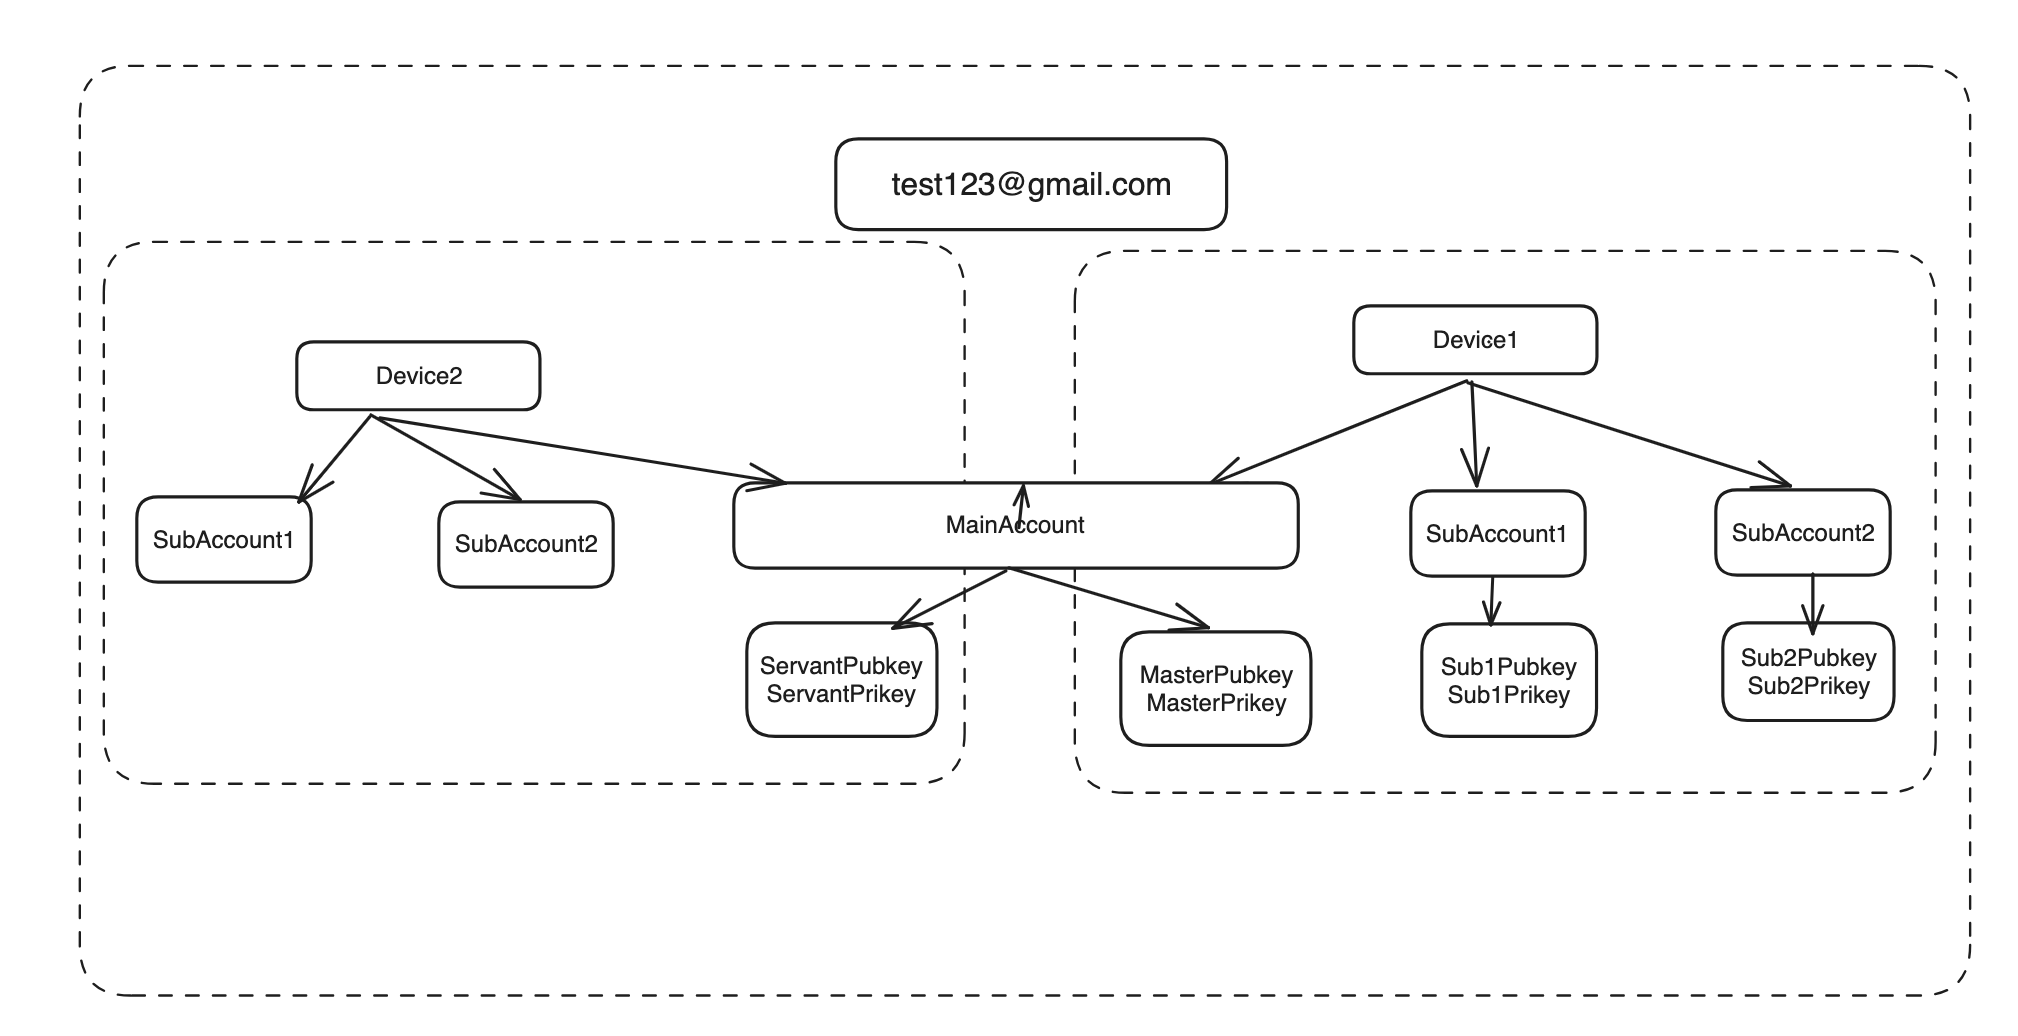
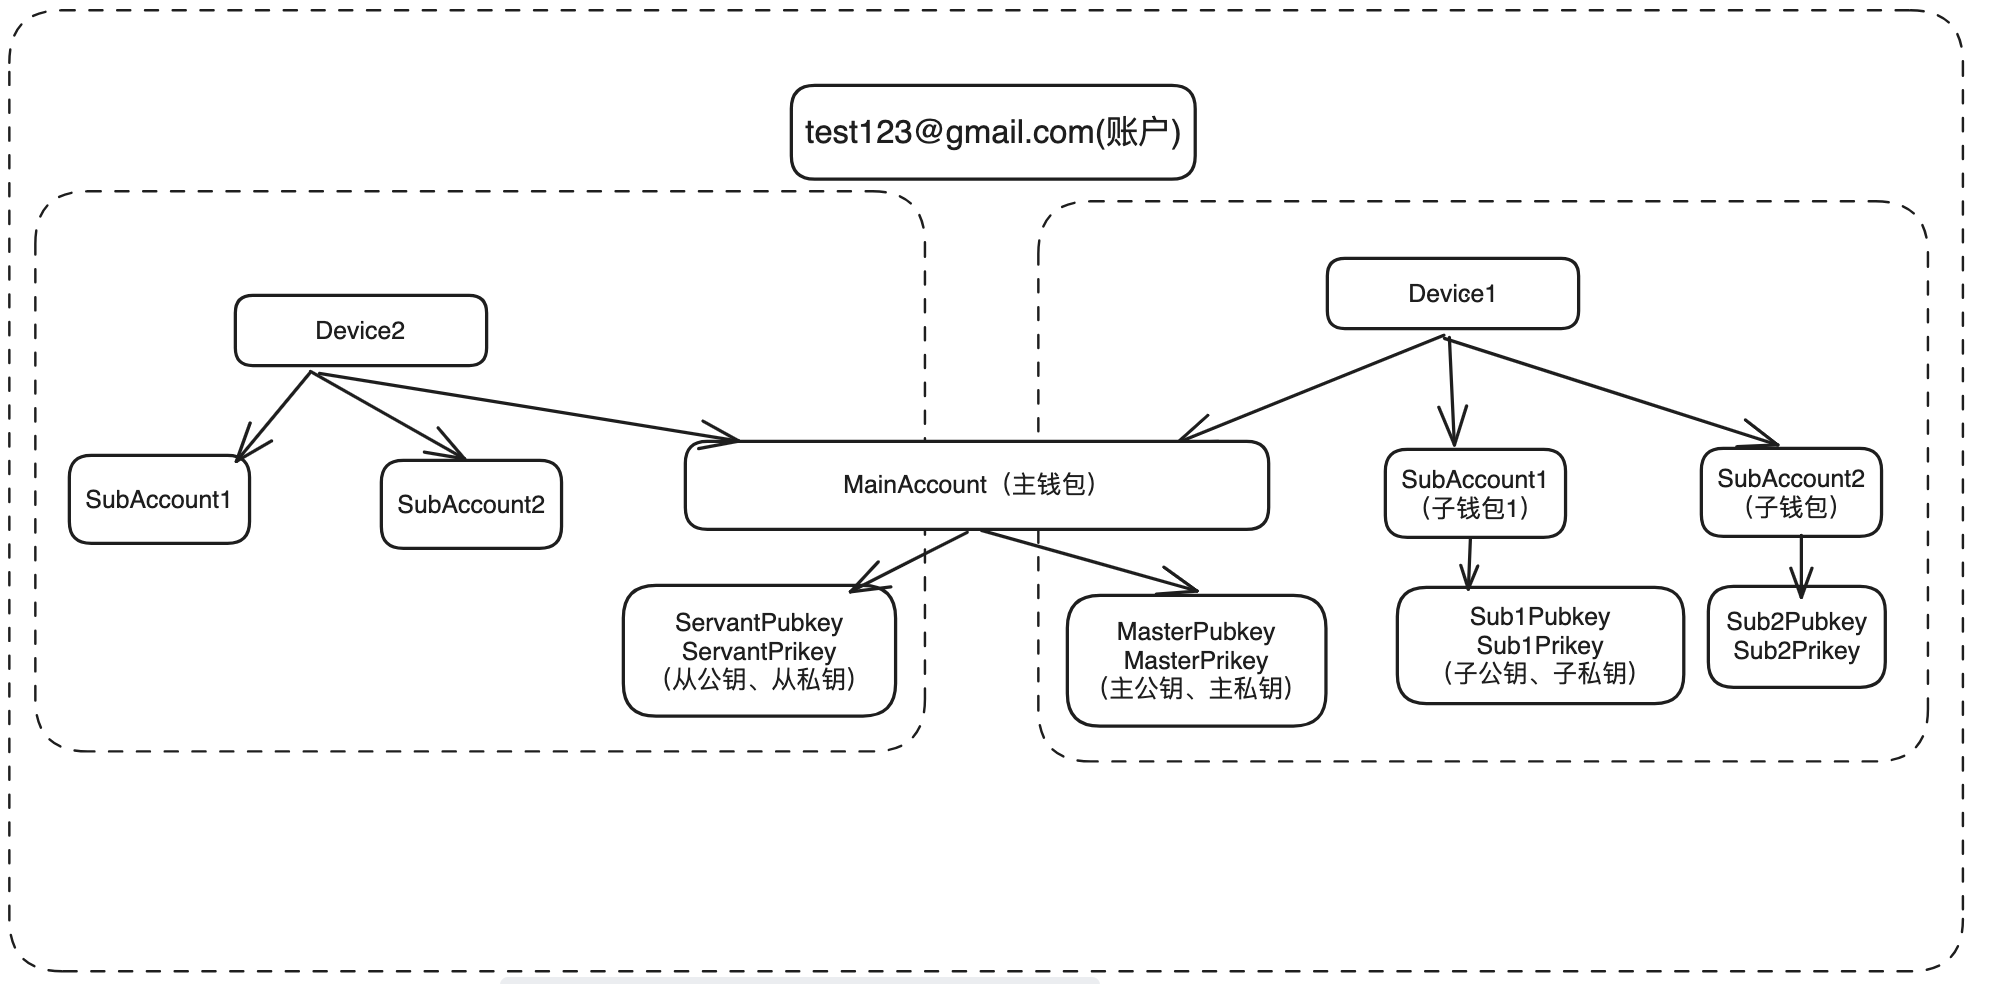
docs: update wallet api docs

diff --git a/api/src/wallet/mod.rs b/api/src/wallet/mod.rs
@@ -73,9 +73,9 @@ async fn search_message(request: HttpRequest) -> impl Responder {
  * @apiSuccess {string=0,1} status_code         status code.
  * @apiSuccess {string=Successfully,InternalError} msg
  * @apiSuccess {Object} data                          策略详情.
- * @apiSuccess {String} data.master_pubkey        主账户的maser的公钥
- * @apiSuccess {String[]} data.servant_pubkeys    主账户的servant的公钥组
- * @apiSuccess {String[]} data.subaccounts        子账户的公钥组
+ * @apiSuccess {String} data.master_pubkey        主钱包的maser的公钥
+ * @apiSuccess {String[]} data.servant_pubkeys    主钱包的servant的公钥组
+ * @apiSuccess {String[]} data.subaccounts        子钱包的公钥组
  * @apiSuccess {Object[]} [data.multi_sig_ranks]        转账额度对应签名数的档位.
  * @apiSuccess {Number} data.multi_sig_ranks.min       最小金额.
  * @apiSuccess {Number} data.multi_sig_ranks.max_eq        最大金额.
@@ -99,12 +99,35 @@ async fn get_strategy(
     gen_extra_respond(handlers::get_strategy::req(request, request_data.into_inner()).await)
 }
 
+
+
+
+/**
+ * @api {get} /wallet/getStrategy 查询钱包的主从签名策略
+ * @apiVersion 0.0.1
+ * @apiName getStrategy
+ * @apiGroup Wallet
+ * @apiQuery {String} pubkey              想要备份密钥所属的公钥
+ * @apiHeader {String} Authorization  user's access token
+ * @apiExample {curl} Example usage:
+ *   curl -X POST http://120.232.251.101:8066/wallet/getStrategy
+ * -H "Content-Type: application/json" -H 'Authorization:Bearer eyJ0eXAiOiJKV1QiLCJhbGci
+    OiJIUzI1NiJ9.eyJ1c2VyX2lkIjoxLCJkZXZpY2VfaWQiOiIyIiwiaWF0IjoxNzA2ODQ1ODgwODI3LCJleHA
+    iOjE3MDgxNDE4ODA4Mjd9.YsI4I9xKj_y-91Cbg6KtrszmRxSAZJIWM7fPK7fFlq8'
+ * @apiSuccess {string=0,1} status_code         status code.
+ * @apiSuccess {string=Successfully,InternalError} msg
+ * @apiSuccess {Object} data                                    备份加密密钥信息.
+ * @apiSuccess {String} data.pubkey                             对应的公钥
+ * @apiSuccess {Number} data.user_id                            所属用户ID
+ * @apiSuccess {String} data.encrypted_prikey_by_password       被安全密码加密后的文本
+ * @apiSuccess {String} data.encrypted_prikey_by_answer         被安全问答加密后的文本
+ * @apiSampleRequest http://120.232.251.101:8066/wallet/getStrategy
+ */
 #[derive(Deserialize, Serialize, Default, Clone)]
 #[serde(rename_all = "camelCase")]
 pub struct GetSecretRequest {
     pubkey: String
 }
-//todo: 删掉account_id，从数据库去拿
 #[tracing::instrument(skip_all,fields(trace_id = common::log::generate_trace_id()))]
 #[get("/wallet/getSecret")]
 async fn get_secret(
@@ -116,7 +139,7 @@ async fn get_secret(
 }
 
 /**
- * @api {post} /wallet/preSendMoney 主公钥发起预交易
+ * @api {post} /wallet/preSendMoney 主钱包发起预交易
  * @apiVersion 0.0.1
  * @apiName preSendMoney
  * @apiGroup Wallet
@@ -301,11 +324,11 @@ async fn upload_servant_sig(
 }
 
 /**
- * @api {post} /wallet/addServant 主设备添加从公钥匙
+ * @api {post} /wallet/addServant 主设备添加从公钥
  * @apiVersion 0.0.1
  * @apiName addServant
  * @apiGroup Wallet
- * @apiBody {String} mainAccount    主账户Id
+ * @apiBody {String} mainAccount    主钱包Id
  * @apiBody {String} servantPubkey   从公钥
  * @apiBody {String} servantPrikeyEncrypedByPwd   经密码加密后的从私钥
  * @apiBody {String} servantPrikeyEncrypedByAnswer   经问答加密后的从私钥
@@ -353,10 +376,32 @@ async fn add_servant(
 }
 
 
+/**
+ * @api {post} /wallet/replaceServant 在主设备上选择新设备替换从设备
+ * @apiVersion 0.0.1
+ * @apiName ReplaceServant
+ * @apiGroup Wallet
+ * @apiBody {String} oldServantPubkey   要被替换的从公钥
+ * @apiBody {String} newServantPubkey   新晋从公钥
+ * @apiBody {String} newServantPprikeyEncrypedByPwd   新晋从公钥对应的密钥被密码加密
+ * @apiBody {String} newServantPrikeyEncrypedByAnswer   新晋从公钥对应的密钥被问答加密
+ * @apiBody {String} newDeviceId   新晋持有从公钥的设备ID
+
+ * @apiHeader {String} Authorization  user's access token
+ * @apiExample {curl} Example usage:
+ *   curl -X POST http://120.232.251.101:8066/wallet/replaceServant
+   -d ' {"“}'
+   -H "Content-Type: application/json" -H 'Authorization:Bearer eyJ0eXAiOiJKV1QiLCJhbGci
+    OiJIUzI1NiJ9.eyJ1c2VyX2lkIjoxLCJkZXZpY2VfaWQiOiIyIiwiaWF0IjoxNzA2ODQ1ODgwODI3LCJleHA
+    iOjE3MDgxNDE4ODA4Mjd9.YsI4I9xKj_y-91Cbg6KtrszmRxSAZJIWM7fPK7fFlq8'
+* @apiSuccess {string=0,1} status_code         status code.
+* @apiSuccess {string=Successfully,InternalError} msg
+* @apiSuccess {string} data                nothing.
+* @apiSampleRequest http://120.232.251.101:8066/wallet/replaceServant
+*/
 #[derive(Deserialize, Serialize, Clone)]
 #[serde(rename_all = "camelCase")]
 pub struct ReplaceServantRequest {
-    main_account: String,
     old_servant_pubkey: String,
     new_servant_pubkey: String,
     new_servant_prikey_encryped_by_pwd: String,
@@ -375,6 +420,25 @@ async fn replace_servant(
 
 
 
+/**
+ * @api {post} /wallet/removeServant 在主设备上删除从设备
+ * @apiVersion 0.0.1
+ * @apiName RemoveServant
+ * @apiGroup Wallet
+ * @apiBody {String} servantPubkey   待删除从公钥
+
+ * @apiHeader {String} Authorization  user's access token
+ * @apiExample {curl} Example usage:
+ *   curl -X POST http://120.232.251.101:8066/wallet/removeServant
+   -d ' {"“}'
+   -H "Content-Type: application/json" -H 'Authorization:Bearer eyJ0eXAiOiJKV1QiLCJhbGci
+    OiJIUzI1NiJ9.eyJ1c2VyX2lkIjoxLCJkZXZpY2VfaWQiOiIyIiwiaWF0IjoxNzA2ODQ1ODgwODI3LCJleHA
+    iOjE3MDgxNDE4ODA4Mjd9.YsI4I9xKj_y-91Cbg6KtrszmRxSAZJIWM7fPK7fFlq8'
+* @apiSuccess {string=0,1} status_code         status code.
+* @apiSuccess {string=Successfully,InternalError} msg
+* @apiSuccess {string} data                nothing.
+* @apiSampleRequest http://120.232.251.101:8066/wallet/removeServant
+*/
 #[derive(Deserialize, Serialize, Clone)]
 #[serde(rename_all = "camelCase")]
 pub struct RemoveServantRequest {
@@ -391,7 +455,7 @@ async fn remove_servant(
 }
 
 /***
-* @api {post} /wallet/servantSavedSecret 从设备通知服务端已经本地保存好
+* @api {post} /wallet/servantSavedSecret 从设备告知服务端密钥已保存
 * @apiVersion 0.0.1
 * @apiName servantSavedSecret
 * @apiGroup Wallet
@@ -431,11 +495,11 @@ async fn servant_saved_secret(
 }
 
 /**
- * @api {post} /wallet/addSubaccount 添加子账户
+ * @api {post} /wallet/addSubaccount 添加子钱包
  * @apiVersion 0.0.1
  * @apiName addSubaccount
  * @apiGroup Wallet 
- * @apiBody {String} mainAccount                        主账户id
+ * @apiBody {String} mainAccount                        主钱包id
  * @apiBody {String} subaccountPubkey                   从公钥
  * @apiBody {String} subaccountPrikeyEncrypedByPwd      密码加密后的从私钥
  * @apiBody {String} subaccountPrikeyEncrypedByAnswer   问答加密后的从私钥
@@ -483,7 +547,7 @@ pub struct MultiSigRankExternal {
 }
 
 /**
- * @api {post} /wallet/updateStrategy 更新主账户多签梯度
+ * @api {post} /wallet/updateStrategy 更新主钱包多签梯度
  * @apiVersion 0.0.1
  * @apiName updateStrategy
  * @apiGroup Wallet
@@ -528,14 +592,14 @@ async fn update_strategy(
 /**
  * @api {post} /wallet/createMainAccount 创建主钱包
  * @apiVersion 0.0.1
- * @apiName createMainAccount
+ * @apiName CreateMainAccount
  * @apiGroup Wallet
- * @apiBody {String} masterPubkey                 主账户master公钥  
+ * @apiBody {String} masterPubkey                 主钱包master公钥  
  * @apiBody {String} masterPrikeyEncryptedByPwd   密码加密的master私钥
  * @apiBody {String} masterPrikeyEncryptedByAnswer   问答加密的master私钥
- * @apiBody {String} subaccountPubkey              子账户
- * @apiBody {String} subaccountPrikeyEncrypedByPwd   密码加密的子账户私钥
- * @apiBody {String} subaccountPrikeyEncrypedByAnswer  问答加密的子账户私钥
+ * @apiBody {String} subaccountPubkey              子钱包
+ * @apiBody {String} subaccountPrikeyEncrypedByPwd   密码加密的子钱包私钥
+ * @apiBody {String} subaccountPrikeyEncrypedByAnswer  问答加密的子钱包私钥
  * @apiBody {String} signPwdHash               密码和问答拼接后的hash结果
  * @apiHeader {String} Authorization  user's access token
  * @apiExample {curl} Example usage:
@@ -550,7 +614,7 @@ async fn update_strategy(
 * @apiSuccess {string=0,1} status_code         status code.
 * @apiSuccess {string=Successfully,InternalError} msg
 * @apiSuccess {string} data                nothing.
-* @apiSampleRequest http://120.232.251.101:8066/wallet/newMaster
+* @apiSampleRequest http://120.232.251.101:8066/wallet/createMainAccount
 */
 
 #[derive(Deserialize, Serialize, Clone)]
@@ -602,7 +666,7 @@ async fn faucet_claim(
 }
 
 /**
- * @api {get} /wallet/balanceList 返回支持的五种资产的余额信息
+ * @api {get} /wallet/balanceList 返回支持的资产的余额信息
  * @apiVersion 0.0.1
  * @apiName balanceList
  * @apiGroup Wallet
@@ -641,7 +705,7 @@ async fn balance_list(req: HttpRequest) -> impl Responder {
 * @apiSuccess {string} data.user_id           设备当前所属用户id.
 * @apiSuccess {string} data.state             （不关注）.
 * @apiSuccess {string} data.brand             设备品牌.
-* @apiSuccess {string} data.holder_confirm_saved   设备主账户持有的master或者servant的pubkey.
+* @apiSuccess {string} data.holder_confirm_saved   设备主钱包持有的master或者servant的pubkey.
 * @apiSuccess {string=Master,Servant,Undefined} data.key_role           当前设备持有的key的类型
 
 * @apiSampleRequest http://120.232.251.101:8066/wallet/deviceList
@@ -654,6 +718,31 @@ async fn device_list(req: HttpRequest) -> impl Responder {
 
 
 
+/**
+ * @api {post} /wallet/genTxNewcomerReplaceMaster 构建新设备成为主设备的交互
+ * @apiVersion 0.0.1
+ * @apiName GenTxNewcomerReplaceMaster
+ * @apiGroup Wallet
+ * @apiBody {String} newcomerPubkey                 新晋主公钥  
+ * @apiHeader {String} Authorization  user's access token
+ * @apiExample {curl} Example usage:
+ *   curl -X POST http://120.232.251.101:8066/wallet/genTxNewcomerReplaceMaster
+   -d '  {
+             "encryptedPrikey": "",
+             "pubkey": "",
+            }'
+   -H "Content-Type: application/json" -H 'Authorization:Bearer eyJ0eXAiOiJKV1QiLCJhbGci
+    OiJIUzI1NiJ9.eyJ1c2VyX2lkIjoxLCJkZXZpY2VfaWQiOiIyIiwiaWF0IjoxNzA2ODQ1ODgwODI3LCJleHA
+    iOjE3MDgxNDE4ODA4Mjd9.YsI4I9xKj_y-91Cbg6KtrszmRxSAZJIWM7fPK7fFlq8'
+* @apiSuccess {string=0,1} status_code         status code.
+* @apiSuccess {string=Successfully,InternalError} msg
+* @apiSuccess {string} data                nothing.
+* @apiSuccess {string} data.add_key_txid                增加主公钥对应的tx_id
+* @apiSuccess {string} data.add_key_raw                 增加主公钥对应的tx_raw.
+* @apiSuccess {string} data.delete_key_txid             删除主公钥对应的tx_id.
+* @apiSuccess {string} data.delete_key_raw              删除主公钥对应的tx_raw.
+* @apiSampleRequest http://120.232.251.101:8066/wallet/genTxNewcomerReplaceMaster
+*/
 #[derive(Deserialize, Serialize, Clone)]
 #[serde(rename_all = "camelCase")]
 pub struct GenTxNewcomerReplaceMasterRequest {
@@ -671,6 +760,33 @@ async fn gen_tx_newcomer_replace_master(
 
 
 
+/**
+ * @api {post} /wallet/commitTxNewcomerReplaceMaster 提交新设备成为主设备的交互
+ * @apiVersion 0.0.1
+ * @apiName CommitTxNewcomerReplaceMaster
+ * @apiGroup Wallet
+ * @apiBody {String} newcomerPubkey                            新晋主公钥  
+ * @apiBody {String} addKeyRaw                                  增加主公钥对应的tx_raw  
+ * @apiBody {String} deleteKeyRaw                               删除主公钥对应的tx_raw  
+ * @apiBody {String} addKeySig                                   增加主公钥对应的签名  
+ * @apiBody {String} deleteKeySig                                删除主公钥对应的签名  
+ * @apiBody {String} newcomerPrikeyEncryptedByPwd                 新晋主公钥对应的密钥的被安全密码加密的结果 
+ * @apiBody {String} newcomerPrikeyEncryptedByAnswer             新晋主公钥对应的密钥的被安全问答加密的结果  
+ * @apiHeader {String} Authorization  user's access token
+ * @apiExample {curl} Example usage:
+ *   curl -X POST http://120.232.251.101:8066/wallet/commitTxNewcomerReplaceMaster
+   -d '  {
+             "encryptedPrikey": "",
+             "pubkey": "",
+            }'
+   -H "Content-Type: application/json" -H 'Authorization:Bearer eyJ0eXAiOiJKV1QiLCJhbGci
+    OiJIUzI1NiJ9.eyJ1c2VyX2lkIjoxLCJkZXZpY2VfaWQiOiIyIiwiaWF0IjoxNzA2ODQ1ODgwODI3LCJleHA
+    iOjE3MDgxNDE4ODA4Mjd9.YsI4I9xKj_y-91Cbg6KtrszmRxSAZJIWM7fPK7fFlq8'
+* @apiSuccess {string=0,1} status_code         status code.
+* @apiSuccess {string=Successfully,InternalError} msg
+* @apiSuccess {string} data                nothing.
+* @apiSampleRequest http://120.232.251.101:8066/wallet/commitTxNewcomerReplaceMaster
+*/
 #[derive(Deserialize, Serialize, Clone)]
 #[serde(rename_all = "camelCase")]
 pub struct CommitNewcomerReplaceMasterRequest {
@@ -945,7 +1061,6 @@ mod tests {
         tokio::time::sleep(std::time::Duration::from_millis(3000)).await;
 
         let payload = json!({
-            "mainAccount": sender_master.wallet.main_account,
             "oldServantPubkey": sender_servant.wallet.pubkey.unwrap(),
             "newServantPubkey": sender_new_device.wallet.pubkey.unwrap(),
             "newServantPrikeyEncrypedByPwd": sender_new_device.wallet.prikey.clone().unwrap(),

diff --git a/api/src/wallet/handlers/replace_servant.rs b/api/src/wallet/handlers/replace_servant.rs
@@ -20,8 +20,9 @@ use tracing::error;
 pub(crate) async fn req(req: HttpRequest, request_data: ReplaceServantRequest) -> BackendRes<String> {
     //todo: must be called by main device
     let (user_id,device_id,_) = token_auth::validate_credentials2(&req)?;
+    let user_info = UserInfoView::find_single(UserFilter::ById(user_id))?;
+    let main_account = user_info.user_info.main_account;
     let ReplaceServantRequest {
-        main_account,
         old_servant_pubkey,
         new_servant_pubkey,
         new_servant_prikey_encryped_by_pwd,
